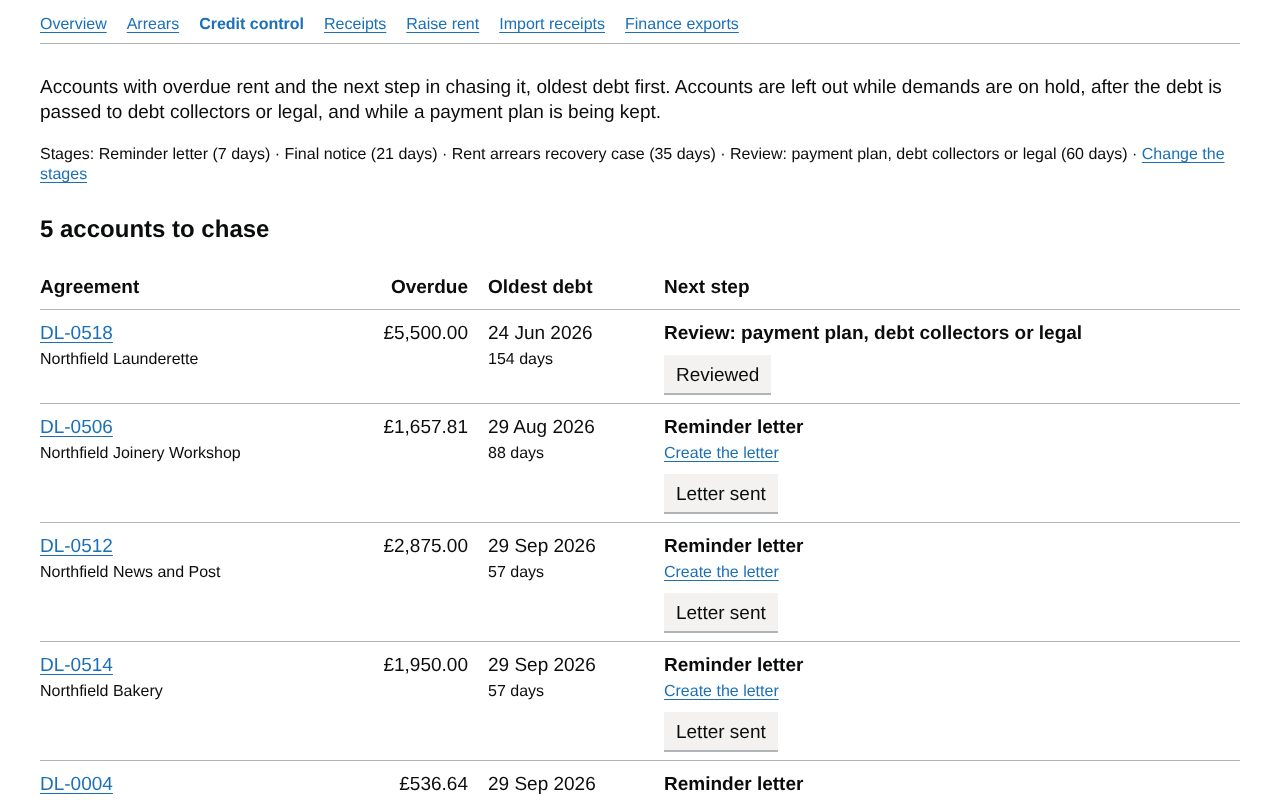
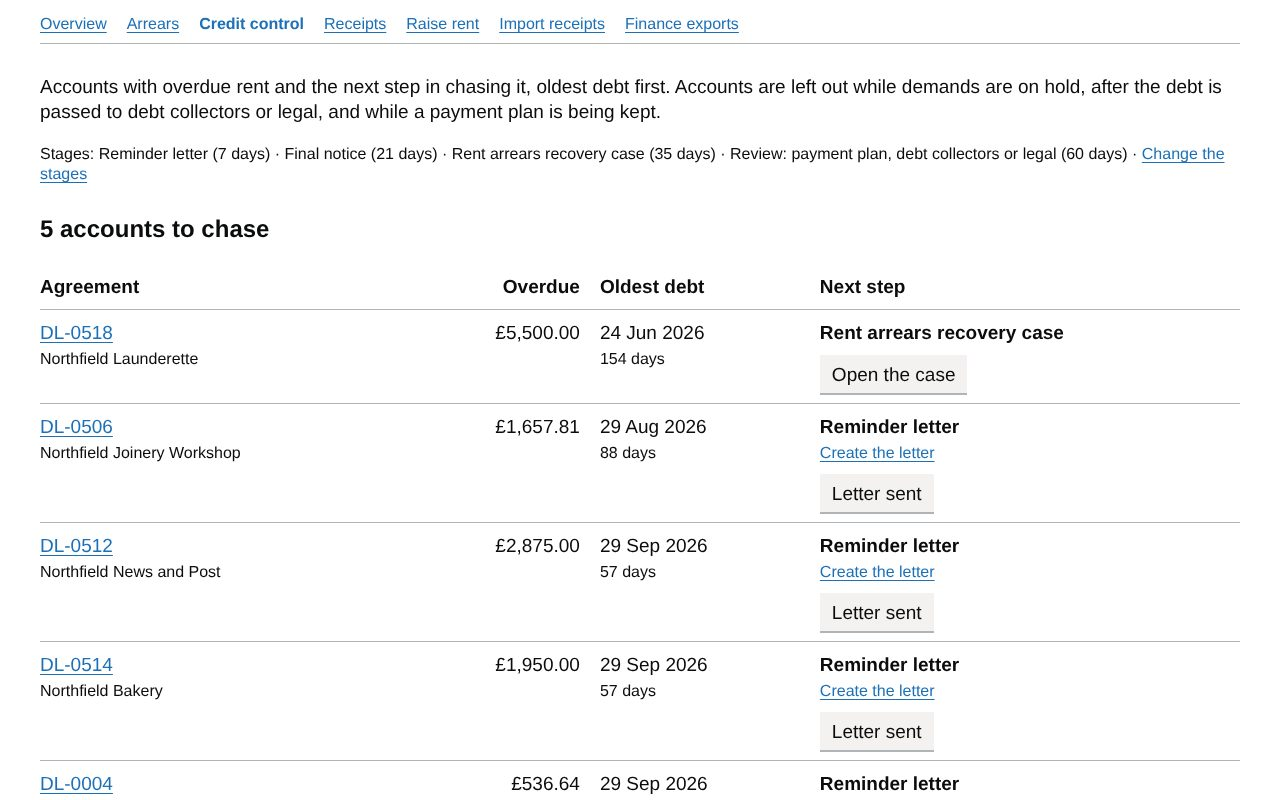
Demo records the arrears letters and leaves the case as the next step; count the marketing demo case
Claude-Session: https://claude.ai/code/session_019pvHbnkKxVb3e8QKMb4ZAU

diff --git a/apps/cases/test_cases.py b/apps/cases/test_cases.py
@@ -219,11 +219,11 @@ def test_demo_cases(db):
     from django.core.management import call_command
 
     call_command("load_demo_data", verbosity=0)
-    assert Case.objects.filter(crm_reference__startswith="DEMO").count() == 21  # 7 Exampleton, 10 Northfield, 1 Asset Challenge, 3 in the Hangar block project
+    assert Case.objects.filter(crm_reference__startswith="DEMO").count() == 22  # 7 Exampleton, 10 Northfield, 1 Asset Challenge, 3 in the Hangar block project, 1 marketing
     assert Case.objects.filter(how_received="event").exists()
     assert Case.objects.get(crm_reference="DEMO-1").approvals.filter(status="pending").exists()
     call_command("load_demo_data", "--reset", verbosity=0)
-    assert Case.objects.filter(crm_reference__startswith="DEMO").count() == 21  # 7 Exampleton, 10 Northfield, 1 Asset Challenge, 3 in the Hangar block project
+    assert Case.objects.filter(crm_reference__startswith="DEMO").count() == 22  # 7 Exampleton, 10 Northfield, 1 Asset Challenge, 3 in the Hangar block project, 1 marketing
 
 
 def _supervise(user, supervisor):

diff --git a/apps/leases/demo_commercial.py b/apps/leases/demo_commercial.py
@@ -143,7 +143,8 @@ def _ledger(today):
         account = billing.account(launderette, today)
         start = creditcontrol.episode_start(account, today)
         if start is not None:
-            for stage in ChaseStage.objects.filter(days_overdue__lte=(today - start).days, action__in=("letter", "case")):
+            letters = ChaseStage.objects.filter(days_overdue__lte=(today - start).days, action="letter")
+            for stage in letters:  # the arrears case is left as the next step
                 creditcontrol.take(launderette, stage, today=min(today, start + timedelta(days=stage.days_overdue)),
                                    account=account)
     pizza = Lease.objects.filter(reference="DL-0016").first()
